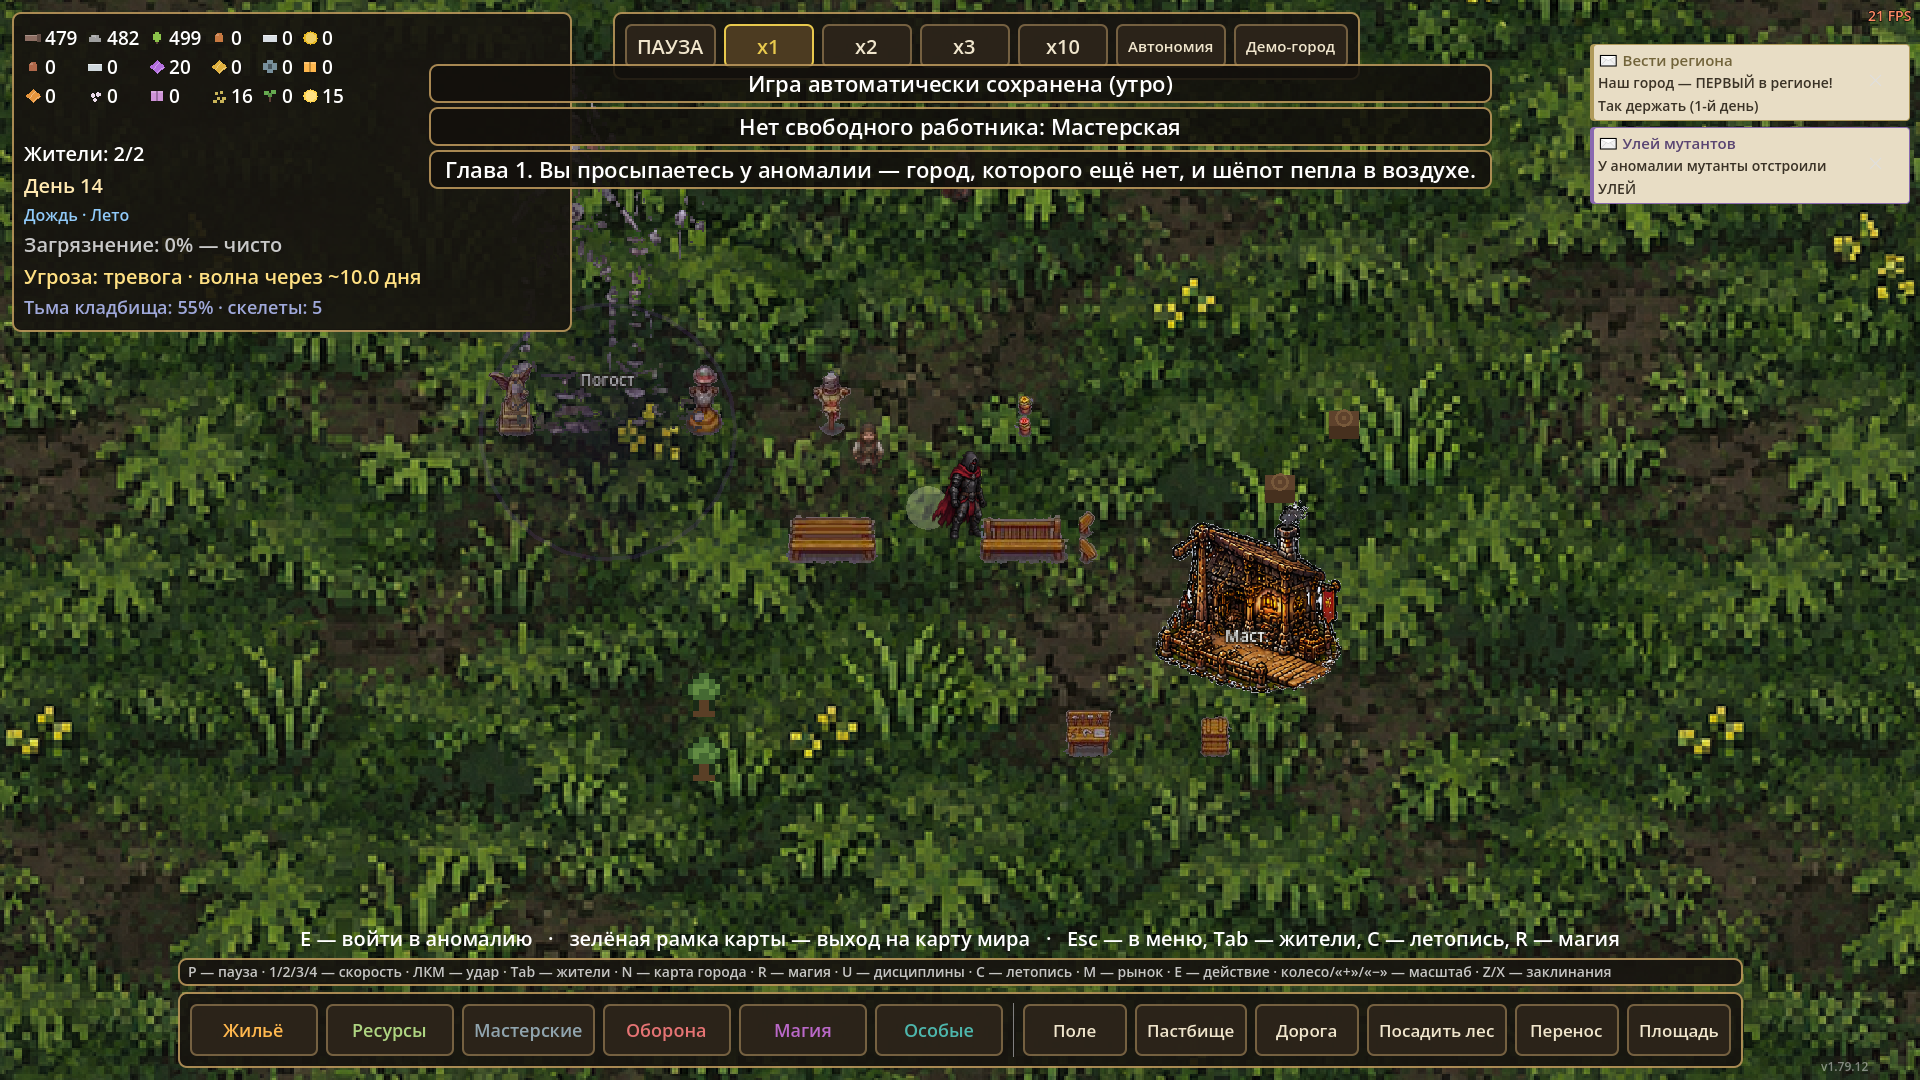
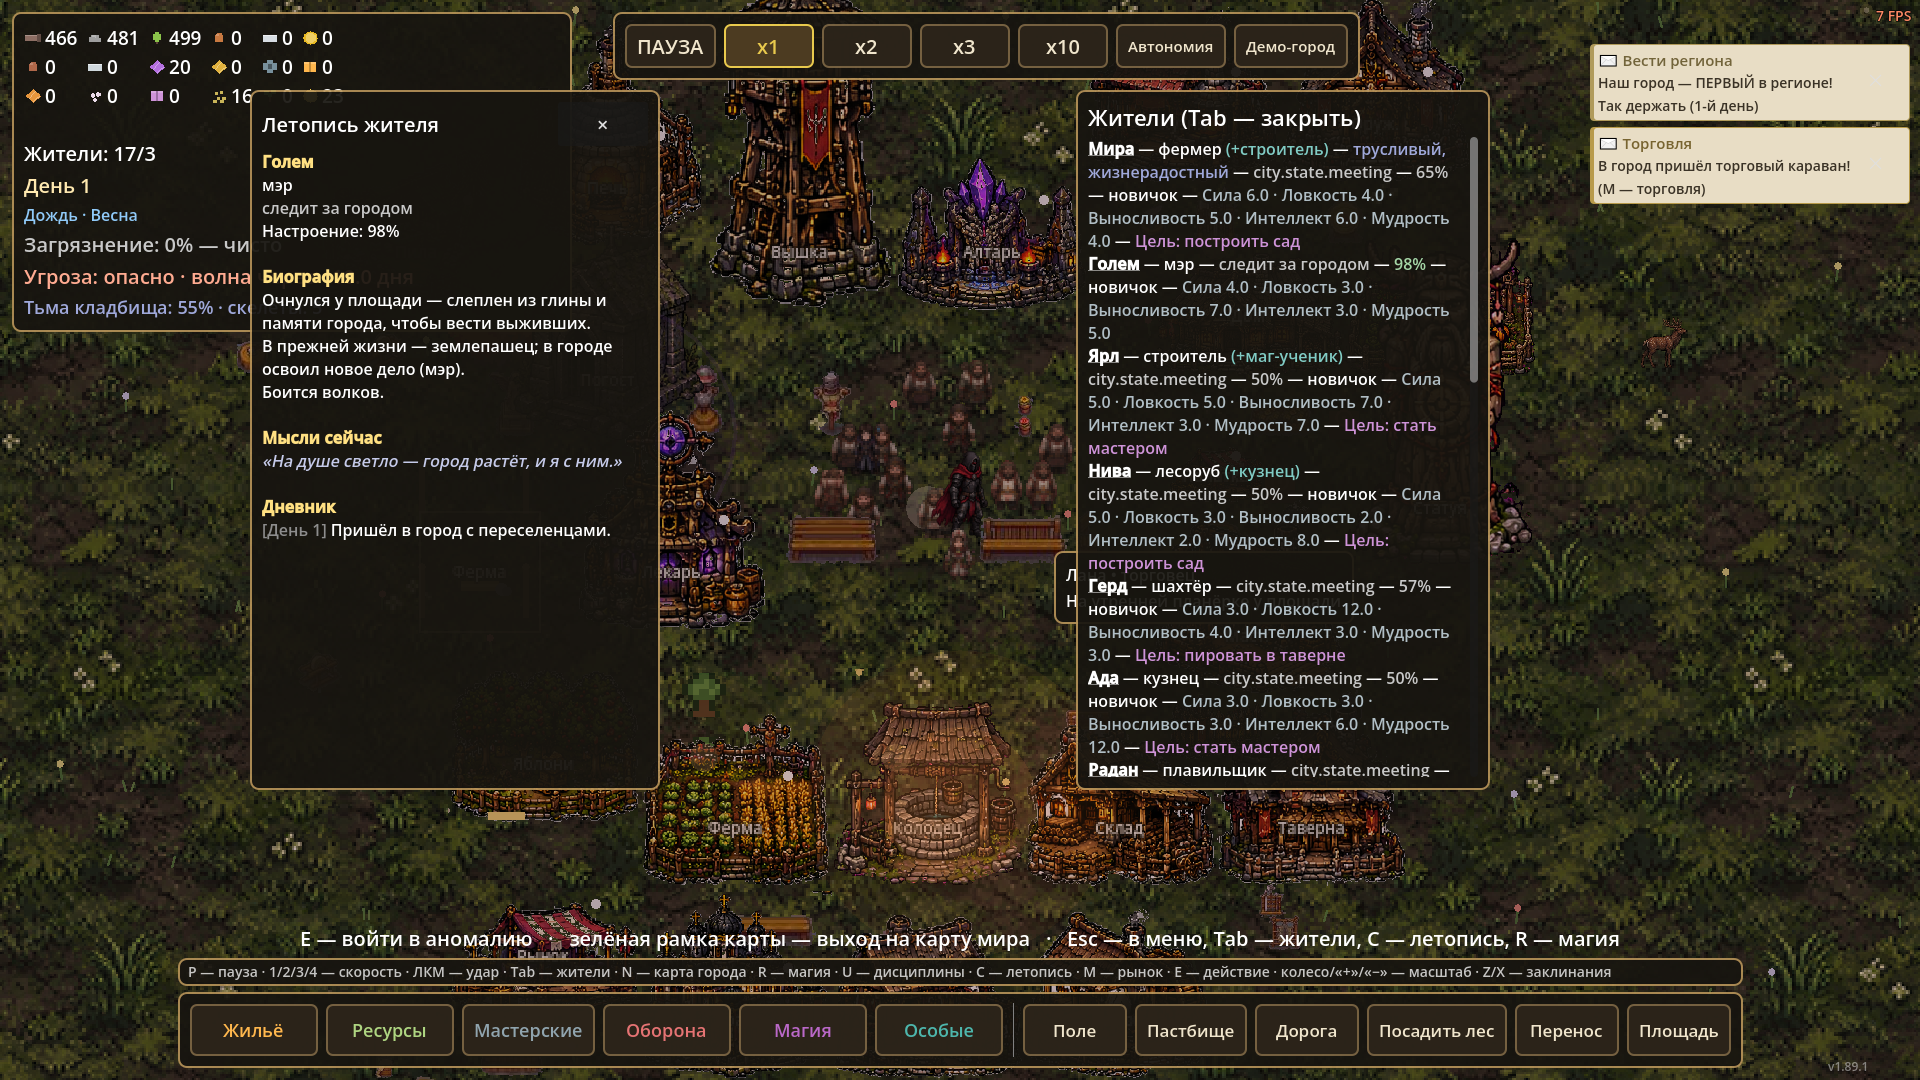
v1.90.0: биография жителя — происхождение (очнулся в лесу и бродил N дней/пепельные земли/караван/разбойники/вымершая деревня/старая дорога; born_here; голем = «слеплен из глины и памяти»), прошлое ремесло (мастер топора/охотник/землепашец/травник/кузнец/батрак — «ремесло не переменил» при совпадени

diff --git a/CHANGELOG_E2.md b/CHANGELOG_E2.md
@@ -13,6 +13,31 @@
 > «Как устроено сейчас» — дизайн-доки `docs/design/<модуль>.md`.
 > По разделам удобно искать: `grep -n "^## " CHANGELOG_E2.md`.
 
+## v1.90.0 — «Биография жителя» (ждёт приёмки)
+
+Заказчик: история человека-биография — «Антон, очнулся посреди леса,
+скитался неделю, набрёл на деревню, мастер топора, валит лес, боится
+гнева Велеса».
+
+- **Данные** (residents.json, весовые роллы как у черт): origins
+  (lost_forest %d дней блужданий / ash_walks / caravan / routed /
+  dead_village / old_road + кодом born_here и golem), fears
+  (гнев Велеса, гроза Перуна, волки, темнота, навья нечисть, огонь,
+  голод, вода), pasts (мастер топора / охотник / землепашец /
+  травник / кузнец / батрак);
+- _new_resident: origin(+origin_arg дней)/fear/past_prof; рождение
+  → born_here, голем → golem;
+- **Панель «Летопись»**: блок «Биография» — проза: происхождение →
+  прошлое ремесло (если совпало с нынешней профессией — «ремесло
+  не переменил», иначе «освоил новое дело») → «Боится %s» →
+  «Мечтает %s»; старые сейвы без origin — «о прошлом ничего не
+  известно»;
+- **Дневник-фикс**: запись только при СМЕНЕ хвори (серия ударов по
+  раненому спамила «Ранен» каждый день — теперь по факту события);
+- tools/diary_story.gd печатает биографию в историях;
+- тест test_v189: +_test_bio (origin/fear/past + локали);
+- скриншот tools/shot_city.png (SHOT_RESIDENT=1).
+
 ## v1.89.1 — правка дневника + генератор историй (2026-11-23)
 
 - res_log: дедуп «та же запись в тот же день» — раны от серии ударов

diff --git a/СЛЕДУЮЩИЙ-ШАГ.md b/СЛЕДУЮЩИЙ-ШАГ.md
@@ -4,7 +4,17 @@
 > новый чат. История — `CHANGELOG_E2.md`; план — `PLAN.md`; как устроено —
 > `docs/design/`.
 
-## ОЧЕРЕДЬ РАБОТ (обновлено 2026-11-23: «Пепел и Благодать», волны 1.80-1.89)
+## ОЧЕРЕДЬ РАБОТ (обновлено 2026-11-23: «Пепел и Благодать», волны 1.80-1.90)
+
+**СДЕЛАНО 2026-11-24, ждёт приёмки: v1.90.0 «Биография жителя»** —
+у каждого происхождение (очнулся в лесу и бродил N дней / пепельные
+земли / караван / бежал от разбойников / вымершая деревня / старая
+дорога; родился в городе; голем — «слеплен из глины и памяти»),
+прошлое ремесло (мастер топора, охотник, землепашец, травник,
+кузнец, батрак — если совпало с нынешней профессией, «ремесло не
+переменил»), страх (гнев Велеса, гроза Перуна, волки, темнота,
+навья нечисть, огонь, голод, вода) и мечта — вся проза в «Летописи»
+перед мыслями. Дневник-фикс: запись только при смене хвори.
 
 **СДЕЛАНО 2026-11-23 (ночь, ждёт приёмки): v1.89.0 «Мысли и летопись
 жителя»** — клик по имени в списке (Tab) открывает «Летопись
